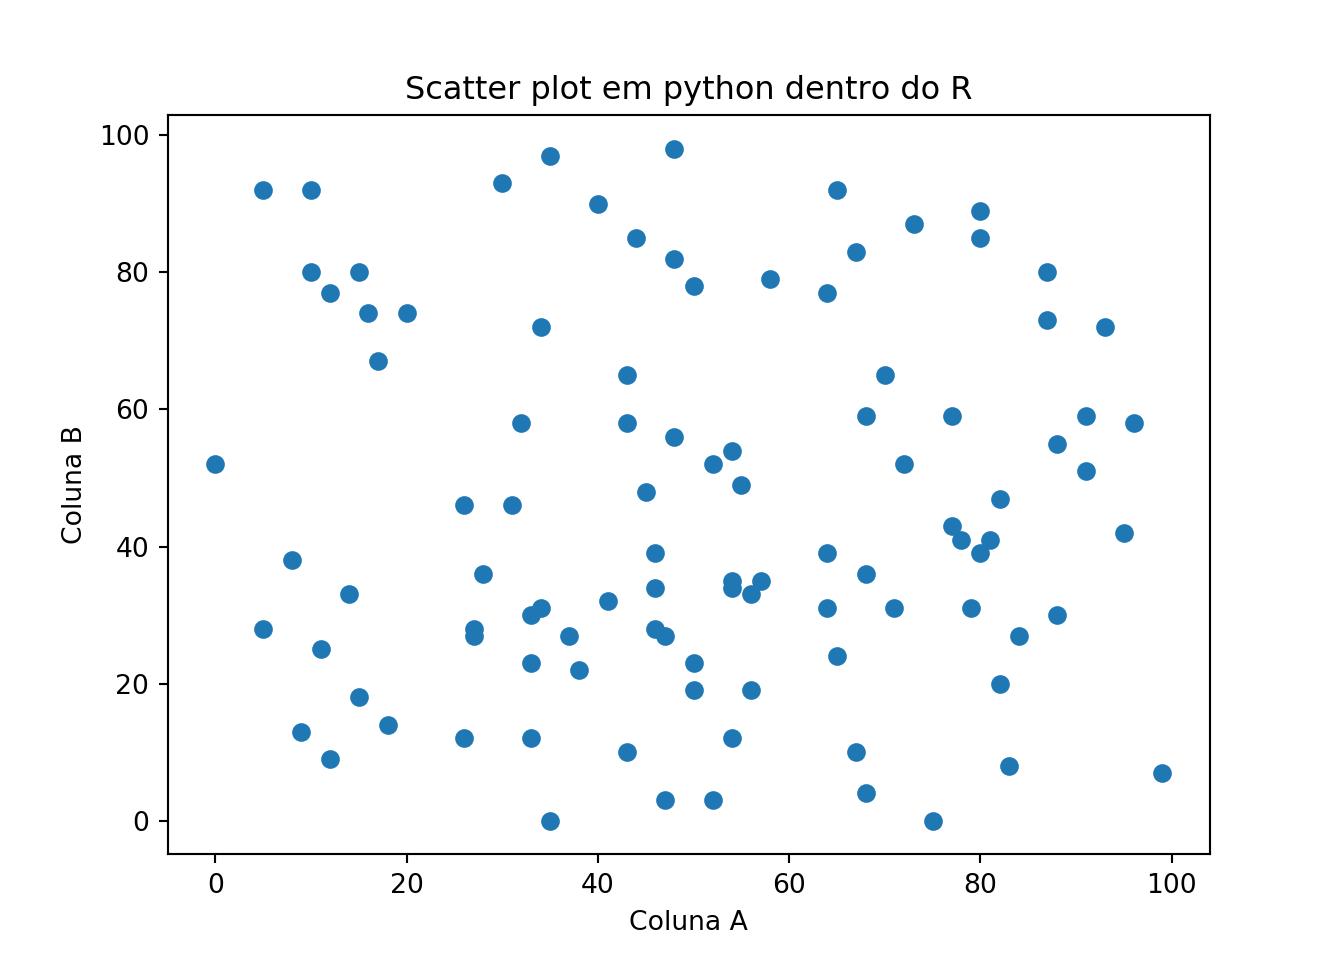
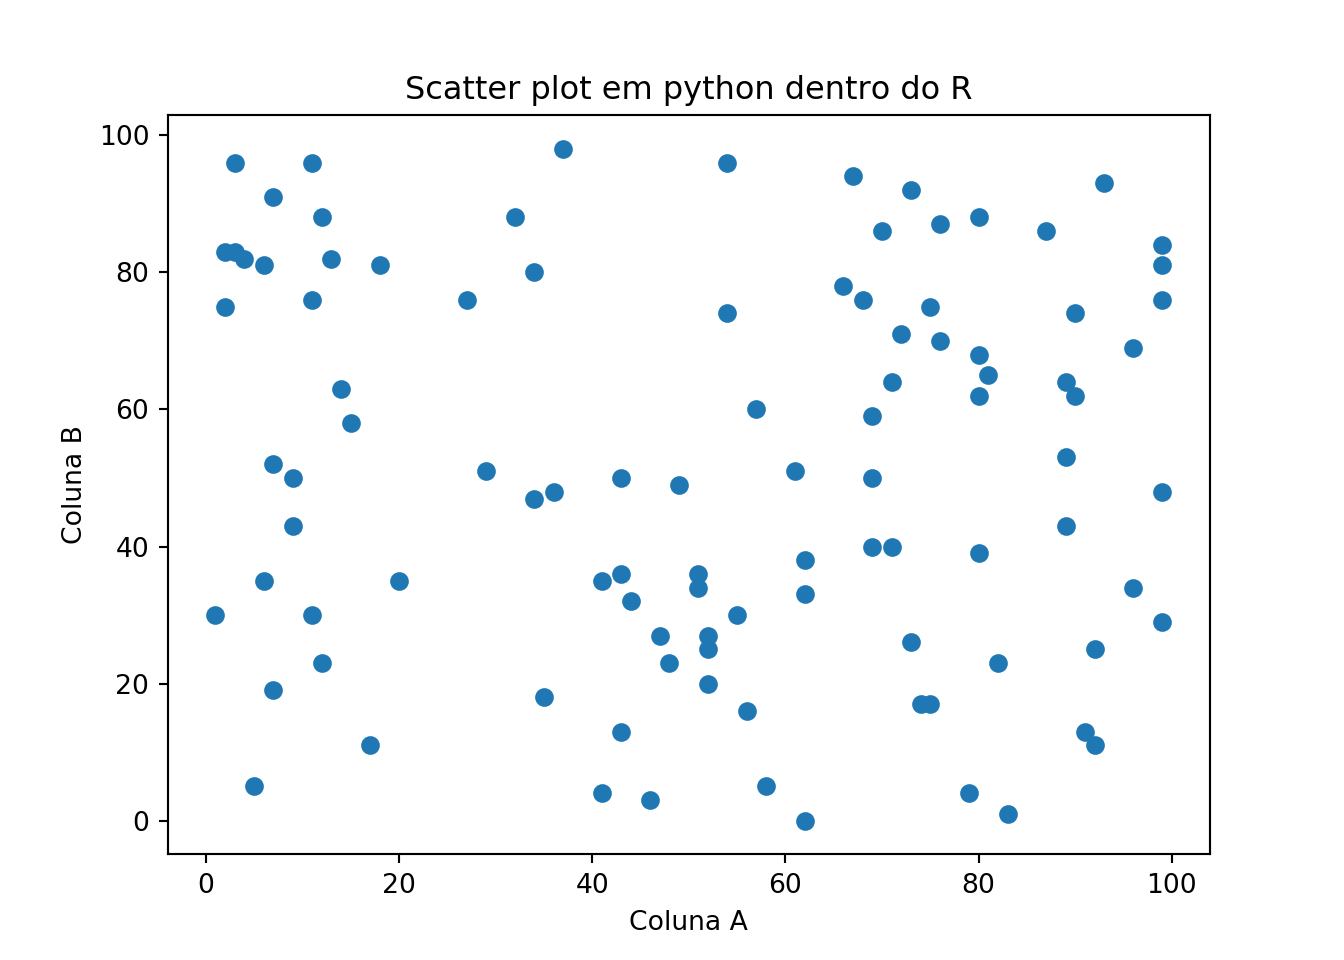
typos 2

diff --git a/content/post/2019-12-23-testando-python-no-rmarkdown.html b/content/post/2019-12-23-testando-python-no-rmarkdown.html
@@ -20,13 +20,13 @@ topics: []
 <p>Dias atrás a galera do RStudio lançou uma nova versão do <code>{reticulate}</code> (pacote responsável pela interface do python dentro do R), que veio acompanhada de um post no blog deles (veja o post <a href="https://blog.rstudio.com/2019/12/20/reticulate-1-14/">aqui</a>). Foi através do post deles que descobri a existência do pacote <code>{rminiconda}</code>! Esse pacote resolveu todos os problemas e é justamente isso que gostaria de registrar aqui nesse post.</p>
 <div id="por-que-python" class="section level1">
 <h1>Por que python?</h1>
-<p>A primeira pergunta que pode surgir é: por que usar python? Bem, a popularidade de python tem crescido nos últimos, puxado especialmente pelas bibliotecas de data science (digo data science de uma maneira geral, por exemplo, manipulação e análises de dados, entre outros). Veja <a href="https://octoverse.github.com/">aqui</a> e <a href="https://insights.stackoverflow.com/survey/2019#technology">aqui</a> o crescimento do python nos últimos anos. Se você tem interesse nessa área, vale a pena aprender python. Vale lembrar que jornalistas também estão usando <a href="https://www.nexojornal.com.br/entrevista/2019/10/18/Como-o-uso-de-dados-est%C3%A1-mudando-o-jornalismo">análise de dados para embasar suas apurações</a>.</p>
-<p>Eu adoro o R, mas algumas soluções analíticas ou mesmo de visualização só estão disponíveis em python (veremos isso em outros post). Por que eu ficaria preso à uma linguagem se existe a solução em outra? Instalar e usar o python não é uma tarefa tão difícil assim (especialmente no Linux). Porém, usar as duas linguagens ao mesmo tempo sempre foi uma barreria pra mim. Existem soluções para isso no <a href="https://stackoverflow.com/questions/39008069/r-and-python-in-one-jupyter-notebook">Jupyter Notebook</a>, mas eu gostaria de usar isso no RMarkdown. Ter as duas linguagens rodando no RMarkdown dentro do RStudio seria o melhor dos dois mundos para mim. Além disso, facilitaria a produção de posts para o blog (que foi criado usando o <code>{blogdown}</code>).</p>
-<p>Vamos para ver como isso funciona.</p>
+<p>A popularidade de python tem crescido nos últimos, puxado especialmente pelas bibliotecas de data science (digo data science de uma maneira geral, por exemplo, manipulação e análises de dados, entre outros). Veja <a href="https://octoverse.github.com/">aqui</a> e <a href="https://insights.stackoverflow.com/survey/2019#technology">aqui</a> o crescimento do python nos últimos anos. Se você tem interesse nessa área, vale a pena aprender python. Vale lembrar que jornalistas também estão usando <a href="https://www.nexojornal.com.br/entrevista/2019/10/18/Como-o-uso-de-dados-est%C3%A1-mudando-o-jornalismo">análise de dados para embasar suas apurações</a>.</p>
+<p>Uso o R diariamente (inclusive para escrever post para este blog), mas algumas soluções analíticas ou mesmo de visualização só estão disponíveis em python. Por que eu ficaria preso à uma linguagem se existe a solução em outra? Instalar e usar o python não é uma tarefa difícil (especialmente no Linux). Porém, usar as duas linguagens ao mesmo tempo sempre foi uma barreria pra mim. Existem soluções para isso no <a href="https://stackoverflow.com/questions/39008069/r-and-python-in-one-jupyter-notebook">Jupyter Notebook</a>, mas eu gostaria de usar isso no RMarkdown. Ter as duas linguagens rodando no RMarkdown dentro do RStudio seria o melhor dos dois mundos.</p>
+<p>Vamos ver como isso funciona.</p>
 </div>
 <div id="instalação-das-dependências" class="section level1">
 <h1>Instalação das dependências</h1>
-<p>Você precisará instalar o python, o R e o RStudio (opcional, mas altamente recomendado) para essa solução funcionar. A instalaçao do R e do RStudio é trivial. Deixarei isso por sua conta. A do python, eu sugiro instalar a versão do <a href="https://docs.anaconda.com/anaconda/install/">Anaconda</a>. Essa é uma instalação completa de diversas bibliotecas usadas em data science. Ela servirá de base para o <code>{rminiconda}</code>.</p>
+<p>Você precisará instalar o python, o R e o RStudio para essa solução funcionar. A instalaçao do R e do RStudio é trivial e deixarei isso por sua conta. A do python, eu sugiro instalar a versão do <a href="https://docs.anaconda.com/anaconda/install/">Anaconda</a>. Essa é uma instalação completa de diversas bibliotecas usadas em data science. Ela servirá de base para o <code>{rminiconda}</code>.</p>
 </div>
 <div id="usando-o-python-dentro-do-rstudio" class="section level1">
 <h1>Usando o python dentro do RStudio</h1>
@@ -36,7 +36,7 @@ topics: []
 <p><img src="../../images/py-script-option.png" alt="" /></p>
 <p>Neste post, vou utilizar o RMarkdown. Com ele, podemos inserir chunks para diversas linguagens. Ao abrir um novo arquivo RMarkdown você verá a seguinte opção:</p>
 <p><img src="../../images/chunks-option.png" alt="" /></p>
-<p>São essas opções que permitem usar uma ou mais linguagens em um mesmo documento.</p>
+<p>São essas opções que permitem usar uma ou mais linguagens em um mesmo arquivo RMarkdown.</p>
 </div>
 <div id="instalação-dos-pacotes-necessários-no-r" class="section level1">
 <h1>Instalação dos pacotes necessários no R</h1>
@@ -129,11 +129,11 @@ import matplotlib.pyplot as plt</code></pre>
 <p>Checando o data frame.</p>
 <pre class="python"><code>df.head()</code></pre>
 <pre><code>##     A   B   C   D
-## 0  33  12  74   8
-## 1   8  38  52   1
-## 2  41  32  60  72
-## 3  83   8  68  95
-## 4  54  34  93  39</code></pre>
+## 0  69  40  17  63
+## 1  17  11  59  77
+## 2  73  26  80  38
+## 3  72  71  70  19
+## 4  13  82  44   0</code></pre>
 <p>Plotando um scatter plot.</p>
 <pre class="python"><code>fig = plt.figure()
 plt.scatter(df[&#39;A&#39;], df[&#39;B&#39;])
@@ -152,12 +152,12 @@ plt.show()</code></pre>
 <p>Checando o data frame no R.</p>
 <pre class="r"><code>head(r_df)</code></pre>
 <pre><code>##    A  B  C  D
-## 1 33 12 74  8
-## 2  8 38 52  1
-## 3 41 32 60 72
-## 4 83  8 68 95
-## 5 54 34 93 39
-## 6 71 31 70 78</code></pre>
+## 1 69 40 17 63
+## 2 17 11 59 77
+## 3 73 26 80 38
+## 4 72 71 70 19
+## 5 13 82 44  0
+## 6 71 40 87 29</code></pre>
 <p>Plotando.</p>
 <pre class="r"><code>r_df %&gt;% 
   ggplot(aes(x = A, y = B)) +
